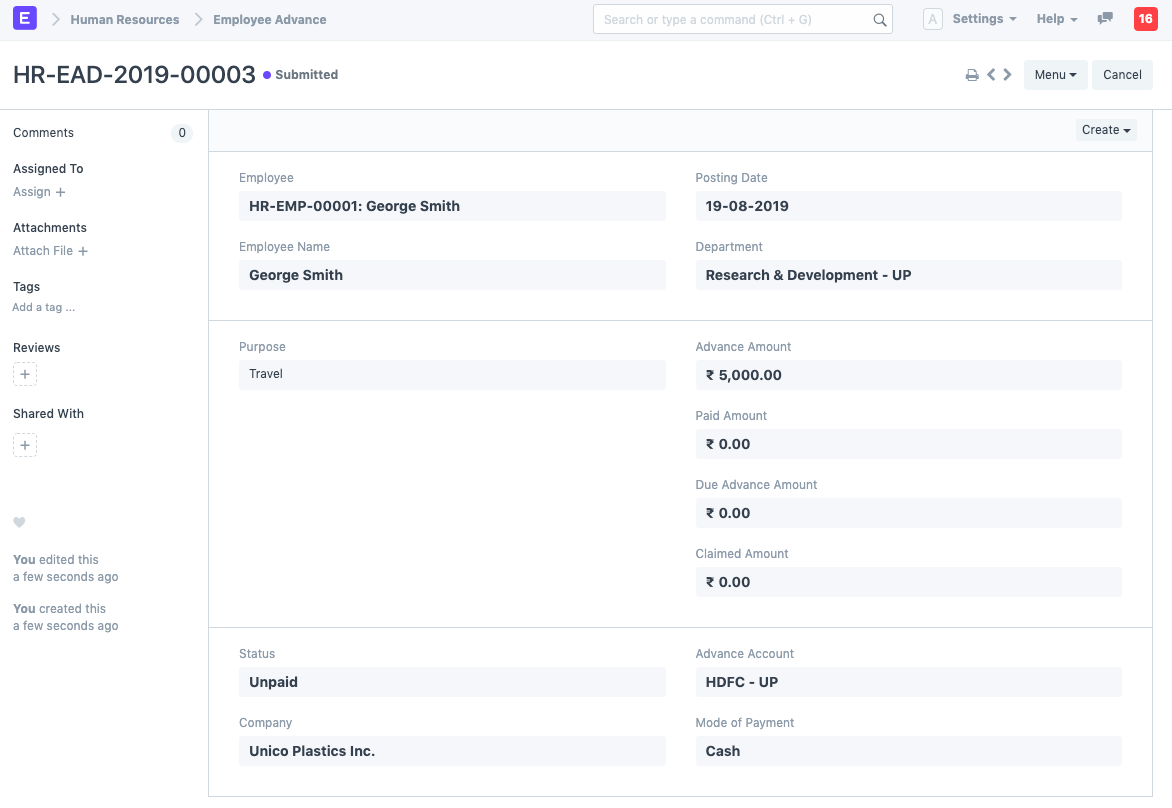
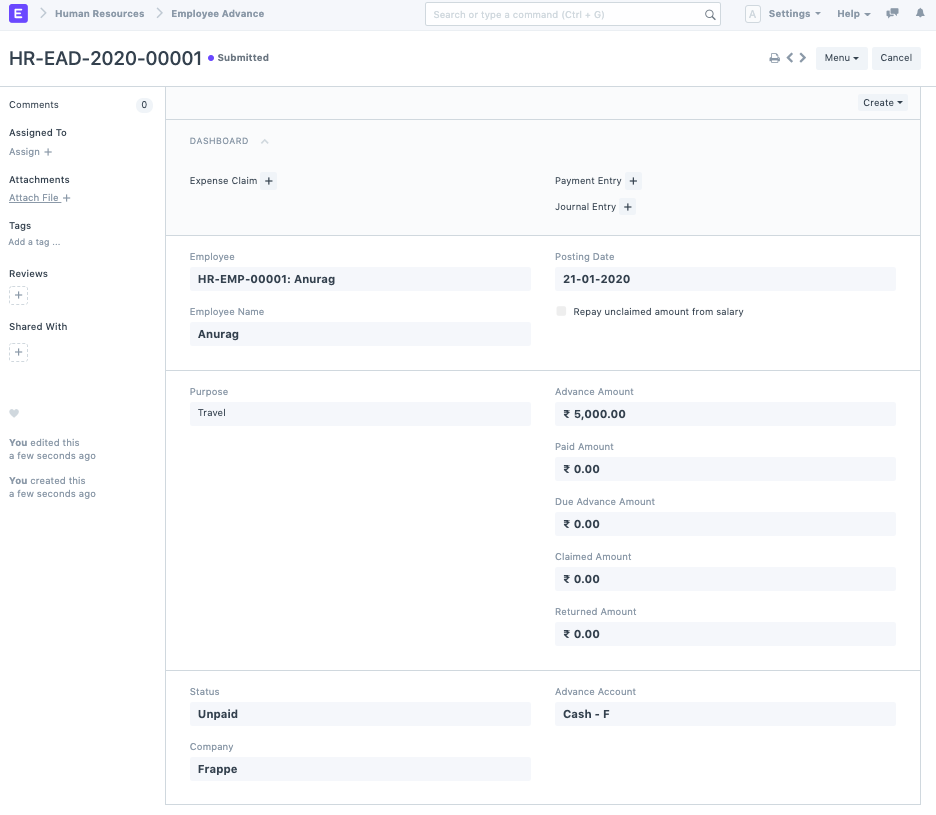
feat(docs): Repay Advance from Salary Slip

diff --git a/erpnext_com/www/docs/user/manual/en/human-resources/employee-advance.md b/erpnext_com/www/docs/user/manual/en/human-resources/employee-advance.md
@@ -7,7 +7,7 @@ Once the Employee Advance is created by the Employee, the Expense Approver can s
 
 To access Employee Advance, go to:
 
-> Human Resources > Expense Claims > Employee Advance 
+> Human Resources > Expense Claims > Employee Advance
 
 ## 1. Prerequisites
 
@@ -36,7 +36,14 @@ After saving Employee Advance, Employee should [Assign document to Approver](/do
 
 After verification, the Expense Approver can Submit (Accept) the Employee Advance form or Reject the request.
 
-### 3.2 Make Payment Entry
+### 3.2 Repay Employee Advance From salary
+
+This feature allows to pay the Employee Advance Unclaimed Amount via salary.
+If 'Repay unclaimed amount from salary' is checked then you need to fill Payroll Date and Salary Component. The Unclaimed amount will be deducted from salary if payroll date is in the interval when Salary is processed, It will be added to the deduction.
+
+<img class="screenshot" alt="Employee Advance Payment via Journal Entry" src="{{docs_base_url}}/assets/img/human-resources/repay-advance-via salary.png">
+
+### 3.3 Make Payment Entry
 
 ##### Employee Advance via Payment Entry
 After submission of Employee Advance record, accounts user will be able to create a [Payment Entry](/docs/user/manual/en/accounts/payment-entry) using the 'Create' button.
@@ -51,7 +58,7 @@ Alternatively, a [Journal Entry](/docs/user/manual/en/accounts/journal-entry) ca
 
 <img class="screenshot" alt="Employee Advance Payment via Journal Entry" src="{{docs_base_url}}/assets/img/human-resources/employee-advance-journal-entry1.png">
 
-> Note: Make sure the Party Type is selected as Employee and the Reference Type is selected as Employee 
+> Note: Make sure the Party Type is selected as Employee and the Reference Type is selected as Employee
 Advance.
 
 <img class="screenshot" alt="Employee Advance Payment via Journal Entry" src="{{docs_base_url}}/assets/img/human-resources/employee-advance-journal-entry2.png">
@@ -59,12 +66,12 @@ Advance.
 #### Employee Advance is Paid
 On submission of the Payment Entry/Journal Entry, the paid amount and status will be updated in Employee Advance record.
 
-### 3.3 Adjust Advances on Expense Claim
+### 3.4 Adjust Advances on Expense Claim
 
 Later when the employee claims the expense, an advance record can be fetched in the [Expense Claim](/docs/user/manual/en/human-resources/expense-claim) and linked to the claim record.
 
 
-### 3.4 Return Amount
+### 3.5 Return Amount
 When advance is paid to an Employee, there are three situations:
 
 * The amount may be unused
@@ -72,7 +79,7 @@ When advance is paid to an Employee, there are three situations:
 * Some part may be used
 
 
-Create the Employee Advance, create a payment entry to indicate that the amount is paid. 
+Create the Employee Advance, create a payment entry to indicate that the amount is paid.
 
 * If amount is unused, click on the **Return** button to return the paid Advance amount
     ![Return Button](/docs/assets/img/human-resources/advance-return-button.png)
